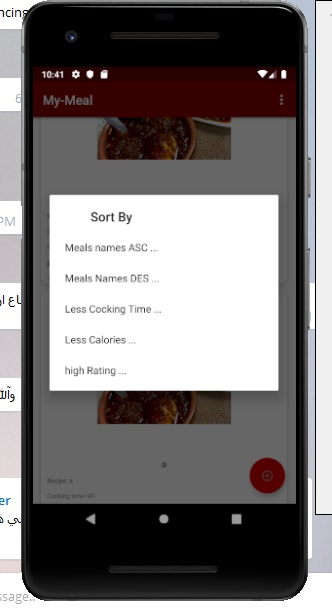
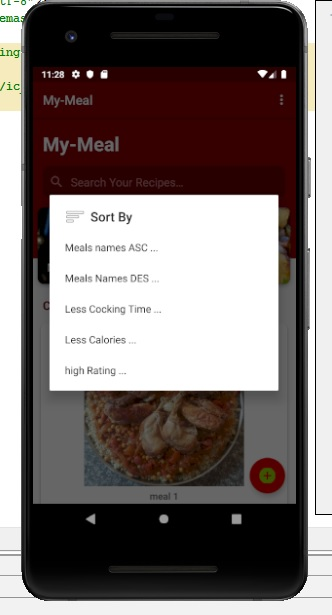
edit design

diff --git a/app/src/main/java/com/apps/my_meal/meals.java b/app/src/main/java/com/apps/my_meal/meals.java
@@ -257,11 +257,12 @@ public class meals extends AppCompatActivity {
         //تم تصميم دايلوك لاظهار خيارات الترتيب
         AlertDialog.Builder builder=new AlertDialog.Builder(this);
         //تم وضع عنوان لهذا الدايلوك
-        builder.setTitle("Sort By").
+        builder.setTitle("Sort By");
                 //وضعه صوره مصغره تدل على الترتيب
-                setIcon(R.drawable.ic_sort).
+        builder.setIcon(android.R.drawable.ic_menu_sort_by_size);
+
                 //وضع اري في الدايلوك وانشاء انتر فيس
-                setItems(OP, new DialogInterface.OnClickListener() {
+        builder.setItems(OP, new DialogInterface.OnClickListener() {
                     @Override
                     public void onClick(DialogInterface dialog, int which) {
 

diff --git a/README.md b/README.md
@@ -22,5 +22,5 @@
 
 ## Sorting Dailog
 
-![login](https://github.com/AbdullahTaher93/My-Meal/blob/master/img/add1.jpg) ![login](https://github.com/AbdullahTaher93/My-Meal/blob/master/img/sorting.jpg)
+ ![login](https://github.com/AbdullahTaher93/My-Meal/blob/master/img/sorting.jpg)
 
